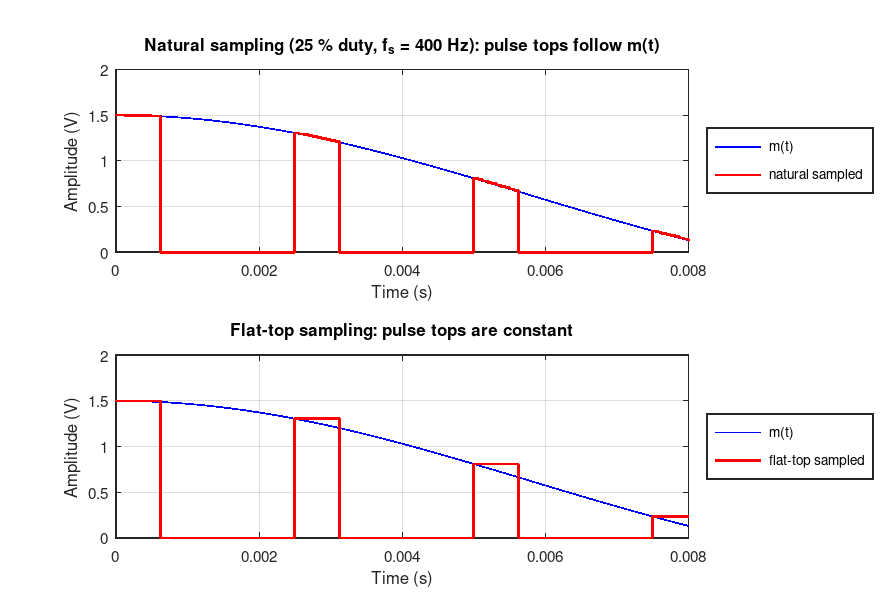
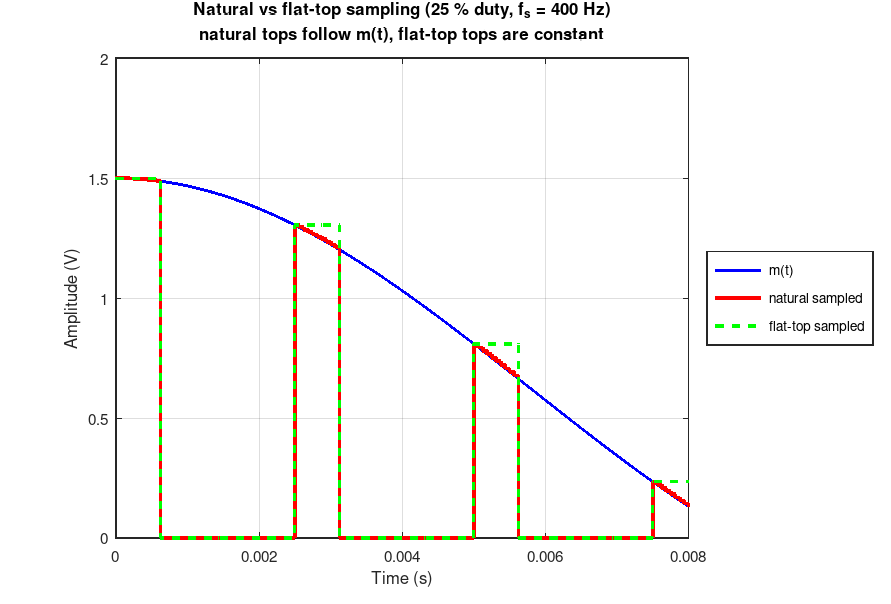
Edited figures for Digital part A

diff --git a/Simulation/Octave Scripts/digA_items1to3_sampling.m b/Simulation/Octave Scripts/digA_items1to3_sampling.m
@@ -203,22 +203,22 @@ ratio50 = lineAt(S_flat,50)/lineAt(S_nat,50);
 
 figure('Name','Item3 time');
 tw = t<=0.008;
-subplot(2,1,1); plot(t(tw),m(tw),'b'); hold on; stairs(t(tw),m_nat(tw),'r','LineWidth',1.1);
-grid on; xlabel('Time (s)'); ylabel('Amplitude (V)'); leg('m(t)','natural sampled');
-title('Natural sampling (25 % duty, f_s = 400 Hz): pulse tops follow m(t)');
-subplot(2,1,2); plot(t(tw),m(tw),'b'); hold on; stairs(t(tw),m_flat(tw),'r','LineWidth',1.1);
-grid on; xlabel('Time (s)'); ylabel('Amplitude (V)'); leg('m(t)','flat-top sampled');
-title('Flat-top sampling: pulse tops are constant');
+plot(t(tw),m(tw),'b','LineWidth',1.2); hold on;
+stairs(t(tw),m_nat(tw),'r','LineWidth',1.8);
+stairs(t(tw),m_flat(tw),'g--','LineWidth',1.5);
+grid on; xlabel('Time (s)'); ylabel('Amplitude (V)');
+leg('m(t)','natural sampled','flat-top sampled');
+title({'Natural vs flat-top sampling (25 % duty, f_s = 400 Hz)','natural tops follow m(t), flat-top tops are constant'});
 if saveFigs, savefig_('04_item3_time'); end
 
 figure('Name','Item3 spectra');
 env = 0.5*d*abs(mysinc(f*tau));                     % sinc envelope for the 20 Hz lines
-subplot(2,1,1); plot(f,abs(S_nat),'r'); hold on; plot(f,env,'k--'); grid on; xlim([-2000 2000]); ylim([0 0.15]);
-xlabel('Frequency (Hz)'); ylabel('|S(f)|'); leg('natural','envelope d\cdot sinc(f\tau)\cdot0.5');
-title('Natural: each copy is an undistorted, constant-scaled copy of M(f)');
-subplot(2,1,2); plot(f,abs(S_flat),'r'); hold on; plot(f,env,'k--'); grid on; xlim([-2000 2000]); ylim([0 0.15]);
-xlabel('Frequency (Hz)'); ylabel('|S(f)|'); leg('flat-top','envelope d\cdot sinc(f\tau)\cdot0.5');
-title('Flat-top: every copy (including base-band) is multiplied by sinc(f\tau)');
+plot(f,abs(S_nat),'r','LineWidth',1.8); hold on;
+plot(f,abs(S_flat),'g--','LineWidth',1.3);
+plot(f,env,'k:','LineWidth',1.2); grid on; xlim([-2000 2000]); ylim([0 0.15]);
+xlabel('Frequency (Hz)'); ylabel('|S(f)|');
+leg('natural','flat-top','envelope d\cdot sinc(f\tau)\cdot0.5');
+title({'Natural vs flat-top spectra (f_s = 400 Hz)','natural copies are constant-scaled, flat-top copies are also multiplied by sinc(f\tau)'});
 if saveFigs, savefig_('05_item3_spectra'); end
 
 figure('Name','Item3 recovery','Position',[50 30 1250 900]);   % wider/taller so titles, legends and labels fit

diff --git a/Simulation/Report.tex b/Simulation/Report.tex
@@ -78,8 +78,8 @@ Both use $f_s=400$ Hz ($T_s=2.5$ ms) and a duty cycle of 25\%, so the pulse widt
 
 Natural samples are recovered with an LPF of gain $1/d$, where $d=0.25$. Flat-top samples are recovered with the same filter plus an equalizer $1/\operatorname{sinc}(f\tau)$ and a delay correction of $\tau/2$. At the band edge, $\operatorname{sinc}(50\tau)=0.99839$, which is a droop of 0.0140 dB (0.16\%), and $\operatorname{sinc}(20\tau)=0.99974$. The equalizer therefore needs only about $+0.014$ dB at 50 Hz. The effect is small because $\tau$ is much shorter than $T_s$.
 
-\samplingfig{Octave Scripts/digA_items1to3_figures/04_item3_time.png}{Natural and flat-top sampled signals in time.}
-\samplingfig{Octave Scripts/digA_items1to3_figures/05_item3_spectra.png}{Spectra of natural and flat-top sampling with the $\operatorname{sinc}(f\tau)$ envelope.}
+\samplingfig{Octave Scripts/digA_items1to3_figures/04_item3_time.png}{Natural and flat-top sampled signals overlaid on the same axes together with $m(t)$ ($f_s=400$ Hz, 25\% duty): natural pulse tops follow $m(t)$, flat-top tops are constant.}
+\samplingfig{Octave Scripts/digA_items1to3_figures/05_item3_spectra.png}{Spectra of natural and flat-top sampling overlaid on the same axes with the $\operatorname{sinc}(f\tau)$ envelope: natural copies are constant-scaled, flat-top copies are multiplied by $\operatorname{sinc}(f\tau)$.}
 \samplingfig{Octave Scripts/digA_items1to3_figures/06_item3_recovery.png}{Recovery from natural and flat-top samples, recovery error, and aperture droop against equalizer gain.}
 
 \begin{lstlisting}
